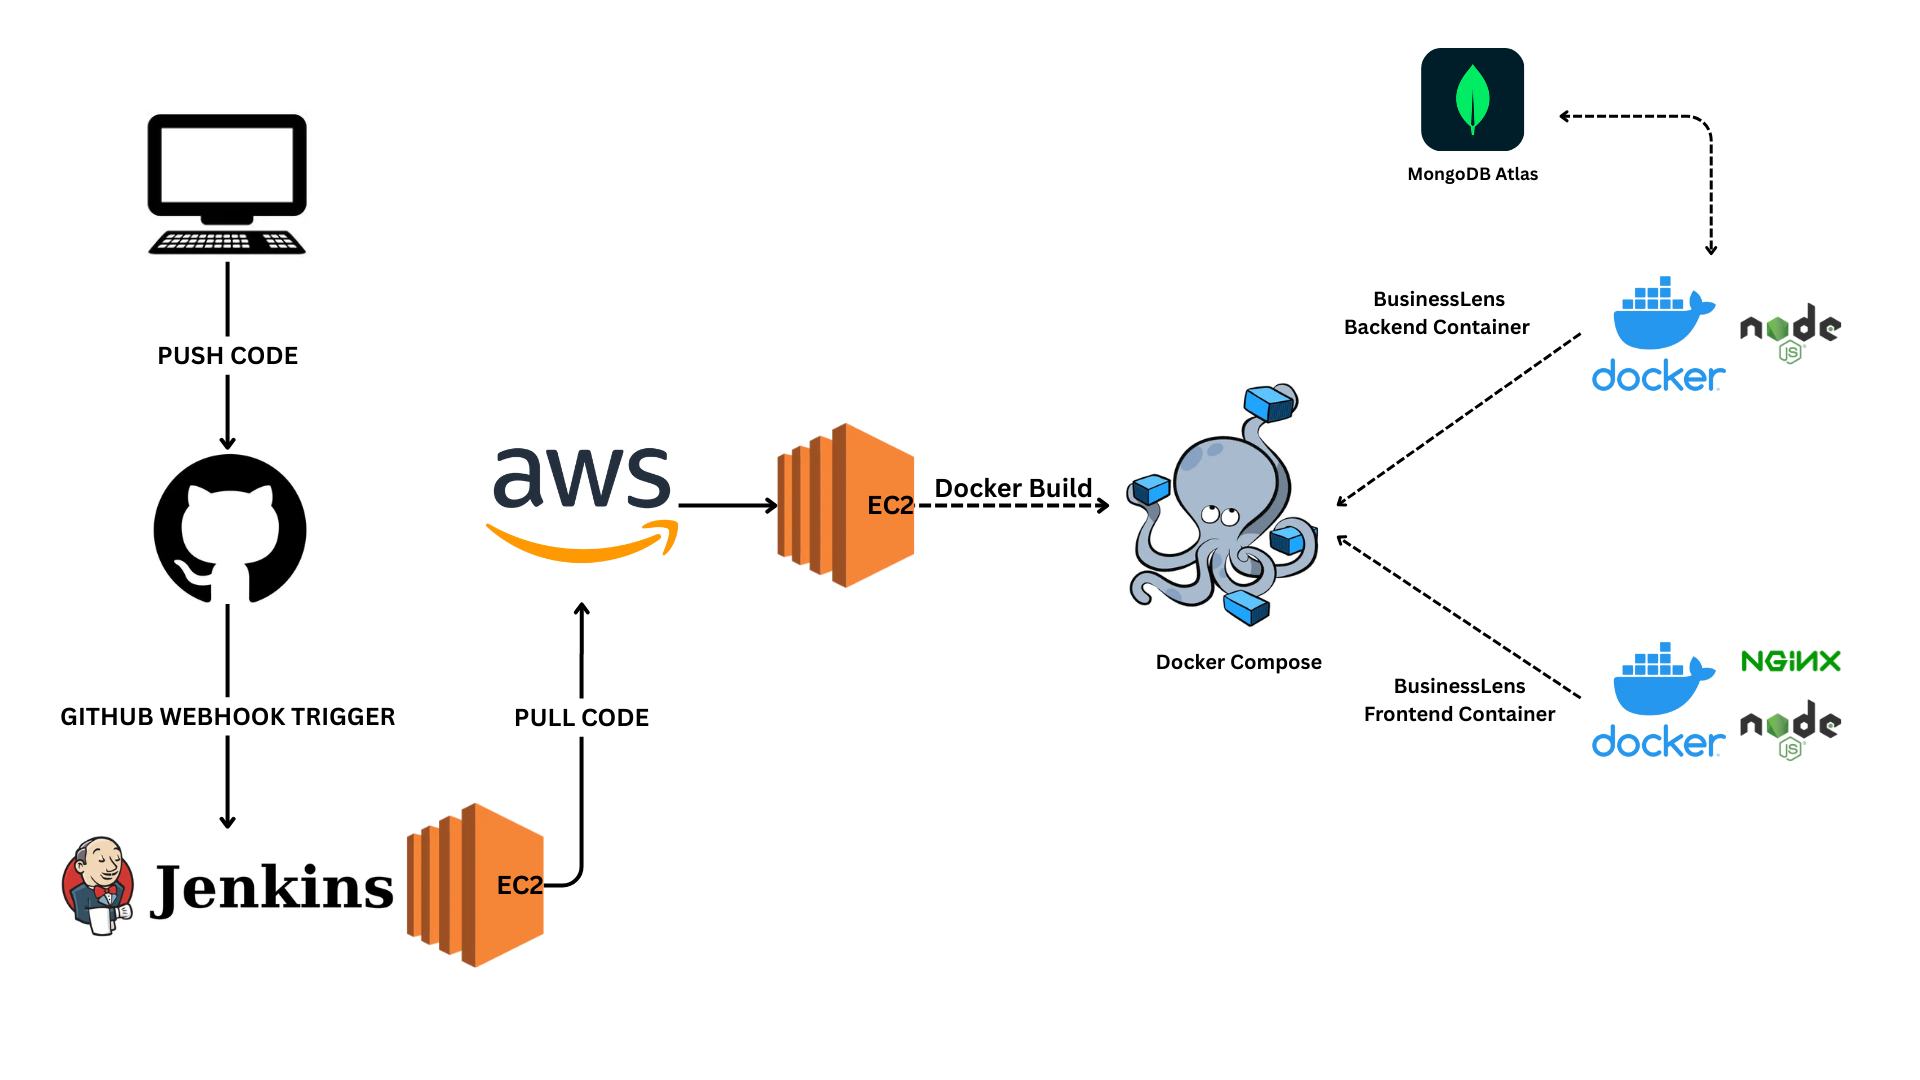
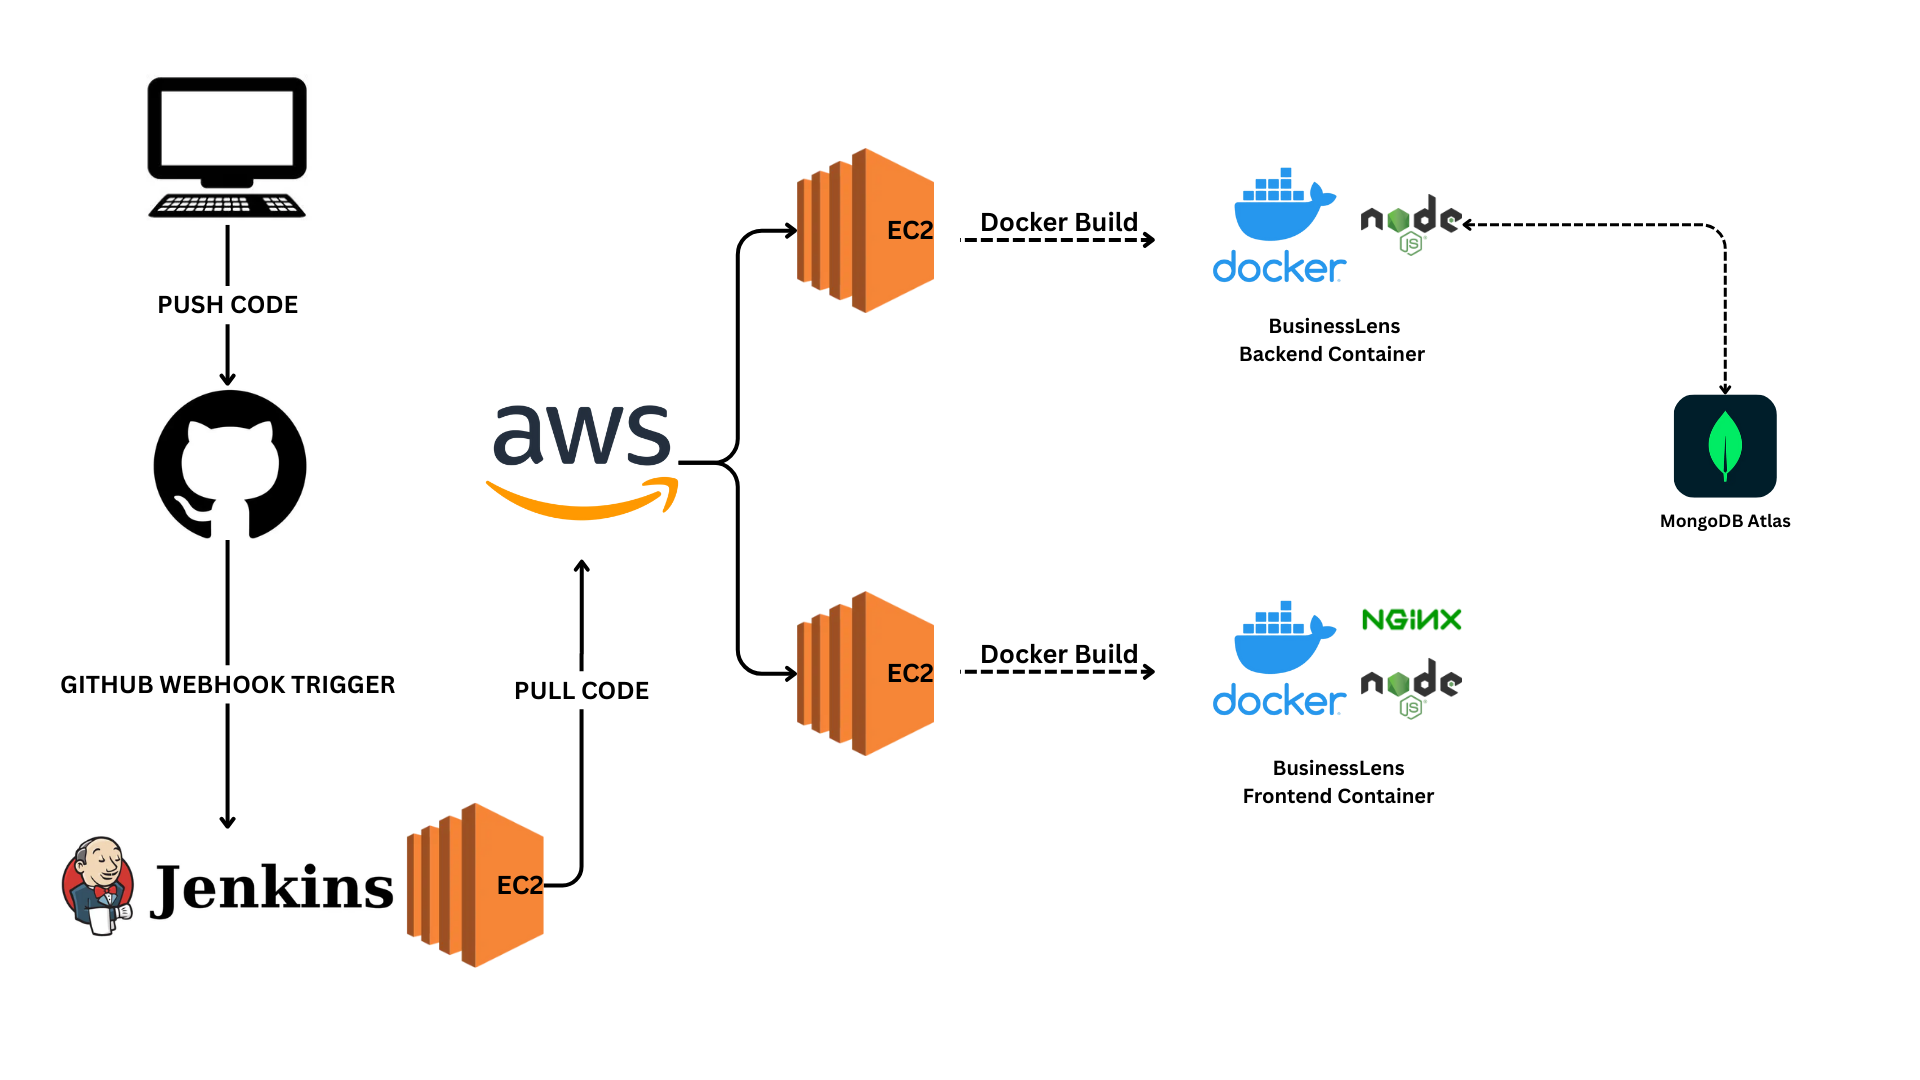
Added only docker diagramn

diff --git a/README.md b/README.md
@@ -159,6 +159,9 @@ Seamless integration with **Stripe** allows:
   ![Deployement Architecture](<Images/Deployment_Architecture1.png>)
   ![Deployement Architecture](<Images/Deployment_Architecture2.png>)
 
+  Using Docker-Compose
+  ![Deployement Architecture](<Images/Deployment_Architecture3.png>)
+
 ## Screenshots
 
   ![alt text](<Images/1.png>) 
